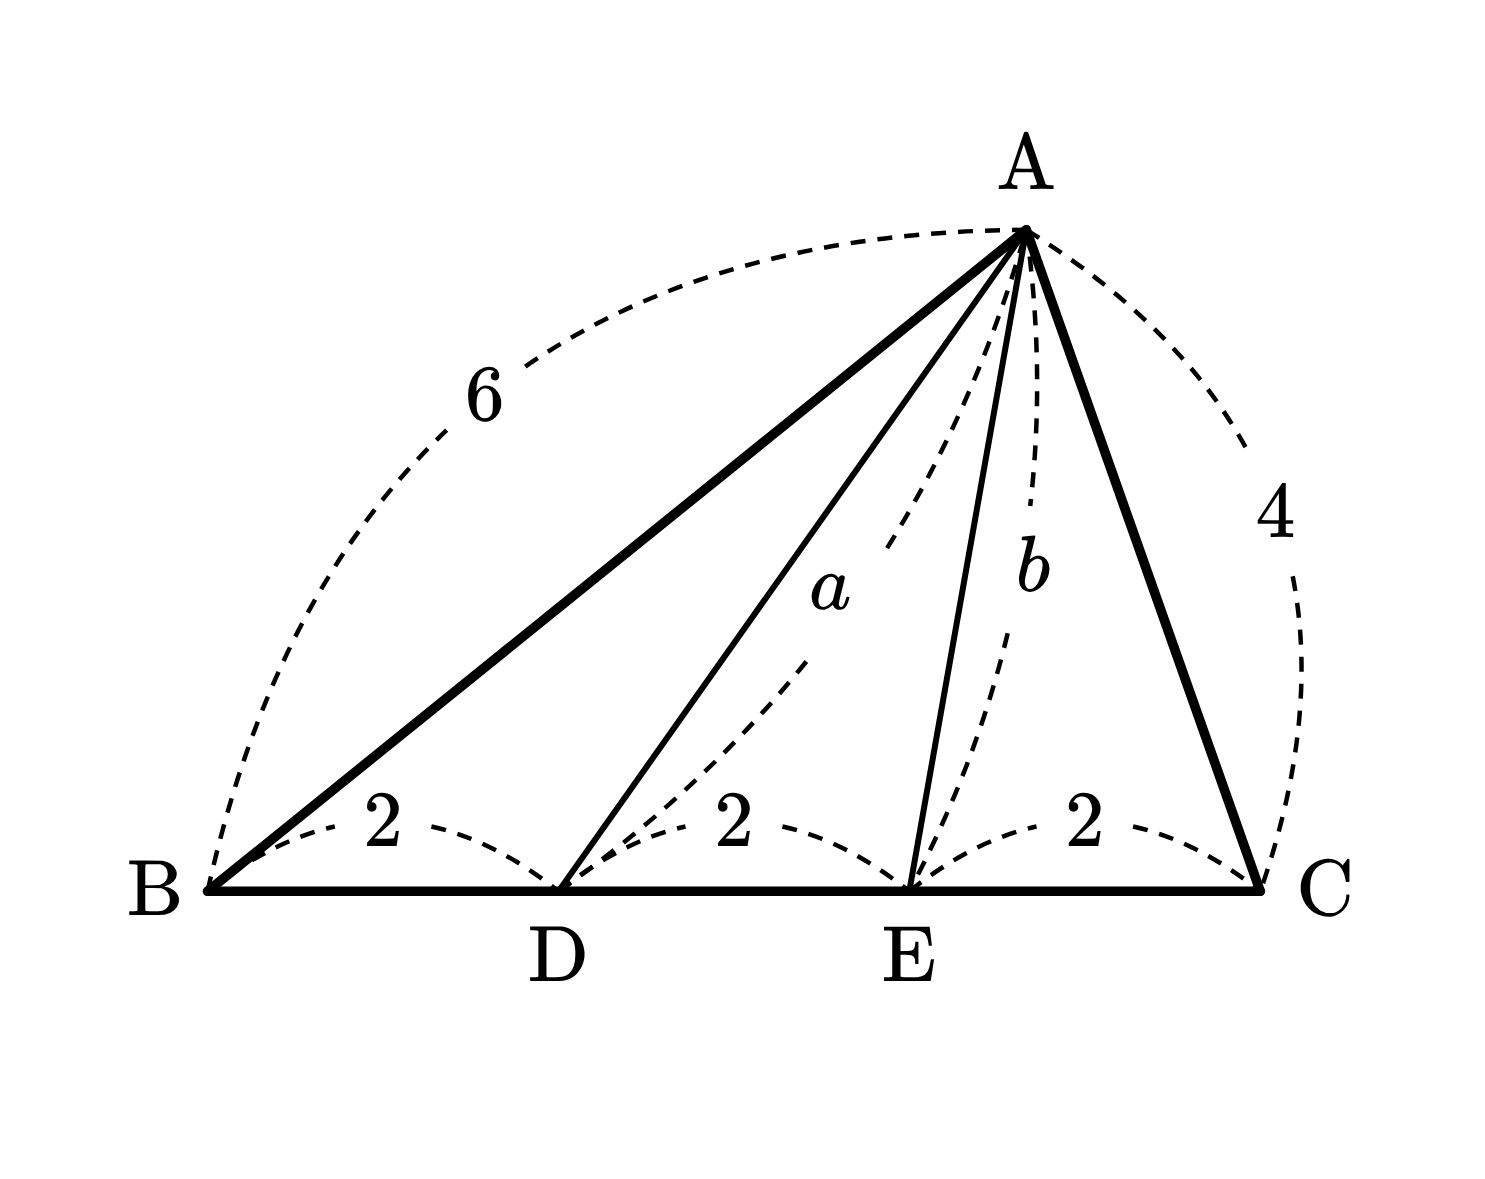
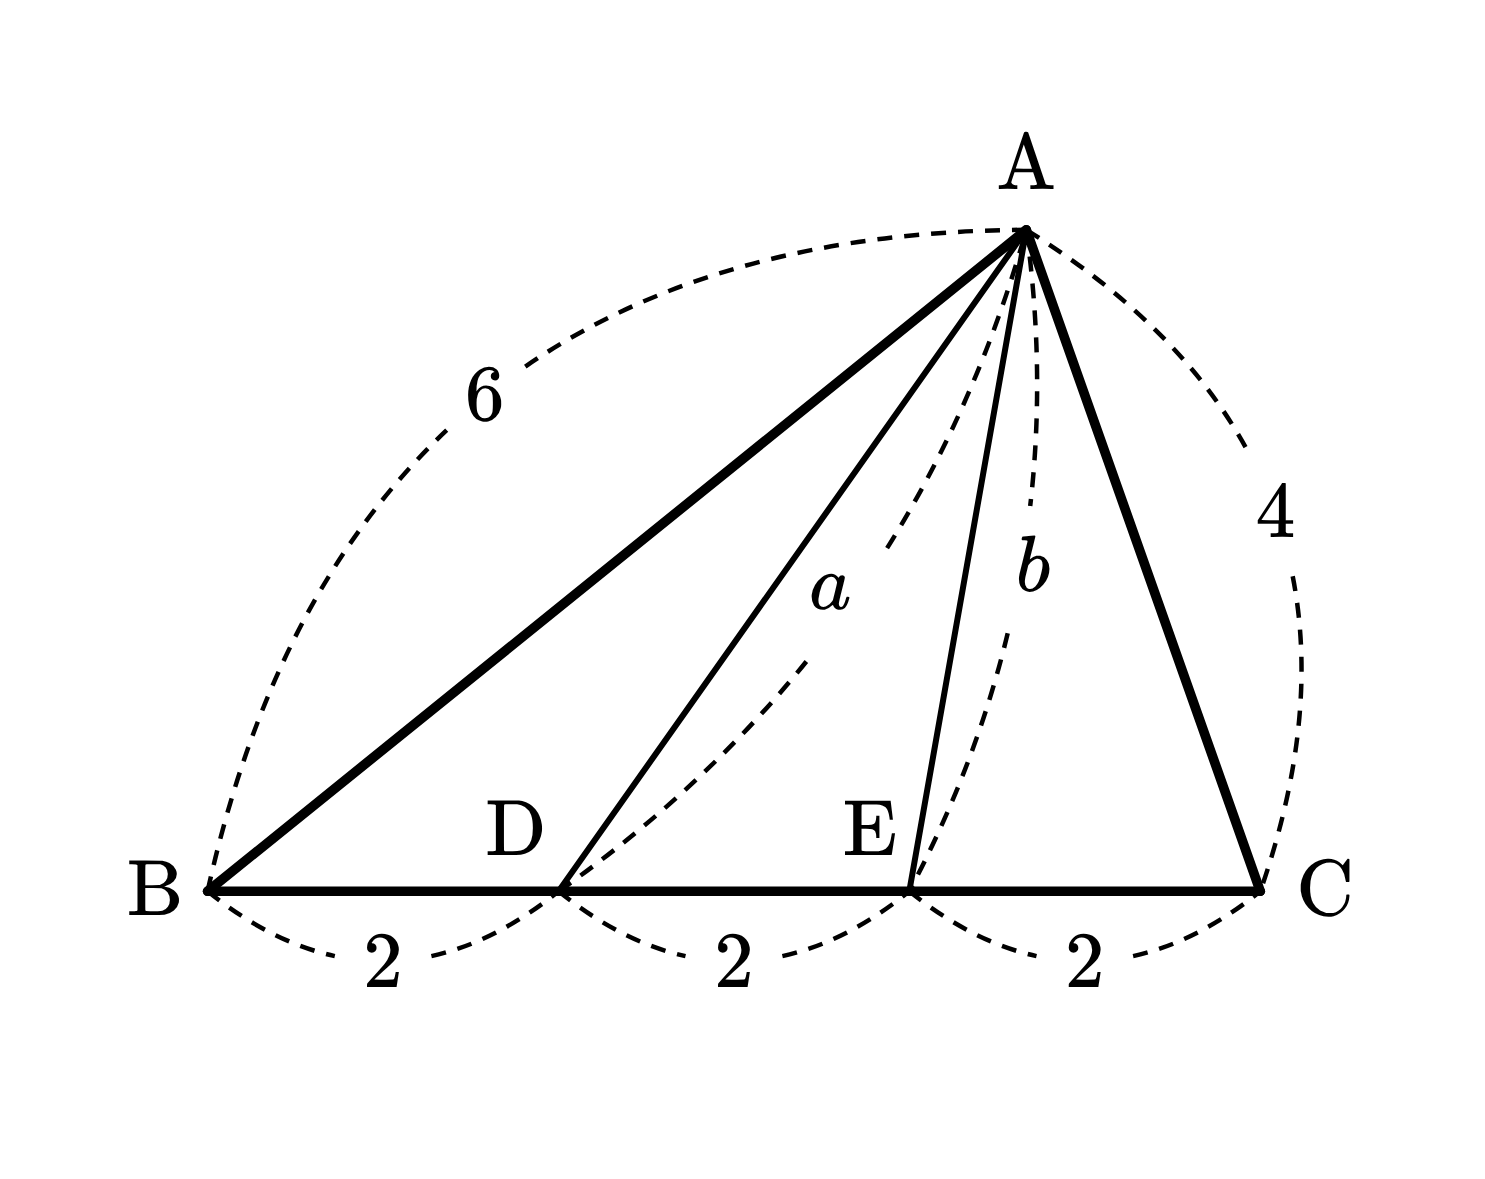
기본서 1단원 34번 그림: BD·DE·EC 길이 호를 BC 아래쪽으로, D·E는 점의 왼쪽 위에
Claude-Session: https://claude.ai/code/session_014WGsHSxW1TsHk3SpmxydRw

diff --git a/유형문제집/도구/그림/draw2_1.py b/유형문제집/도구/그림/draw2_1.py
@@ -95,9 +95,9 @@ def fig_053():
         F.seg(p, q, STROKE)
     F.seg(A, D); F.seg(A, E)
     F.pt(A, "A", "cb", 0, -6); F.pt(B, "B", "rc", -8, 0); F.pt(C, "C", "lc", 8, 0)
-    F.pt(D, "D", "ct", 0, 6); F.pt(E, "E", "ct", 0, 6)
+    F.pt(D, "D", "rb", -4, -4); F.pt(E, "E", "rb", -4, -4)   # 아래쪽에 길이 호가 있어 D, E는 점의 왼쪽 위에
     dim_arc(F, B, A, "6", -1); dim_arc(F, A, C, "4", -1)
-    dim_arc(F, B, D, "2", -1, 12); dim_arc(F, D, E, "2", -1, 12); dim_arc(F, E, C, "2", -1, 12)
+    dim_arc(F, B, D, "2", 1, 12); dim_arc(F, D, E, "2", 1, 12); dim_arc(F, E, C, "2", 1, 12)   # BC 아래쪽(사용자 요청)
     # AD=a, AE=b도 다른 길이처럼 점선 호의 가운데를 끊고 쓴다(2026-11-08 사용자 요청: a, b 양옆에 점선)
     # 선분 사이가 좁아 dim_arc의 최소 휨(길이의 0.2배)을 쓰면 AB·AC와 겹치므로 조금만 휘게 직접 그린다
     small_arc(F, D, A, "a", 1, 24); small_arc(F, A, E, "b", -1, 18)
